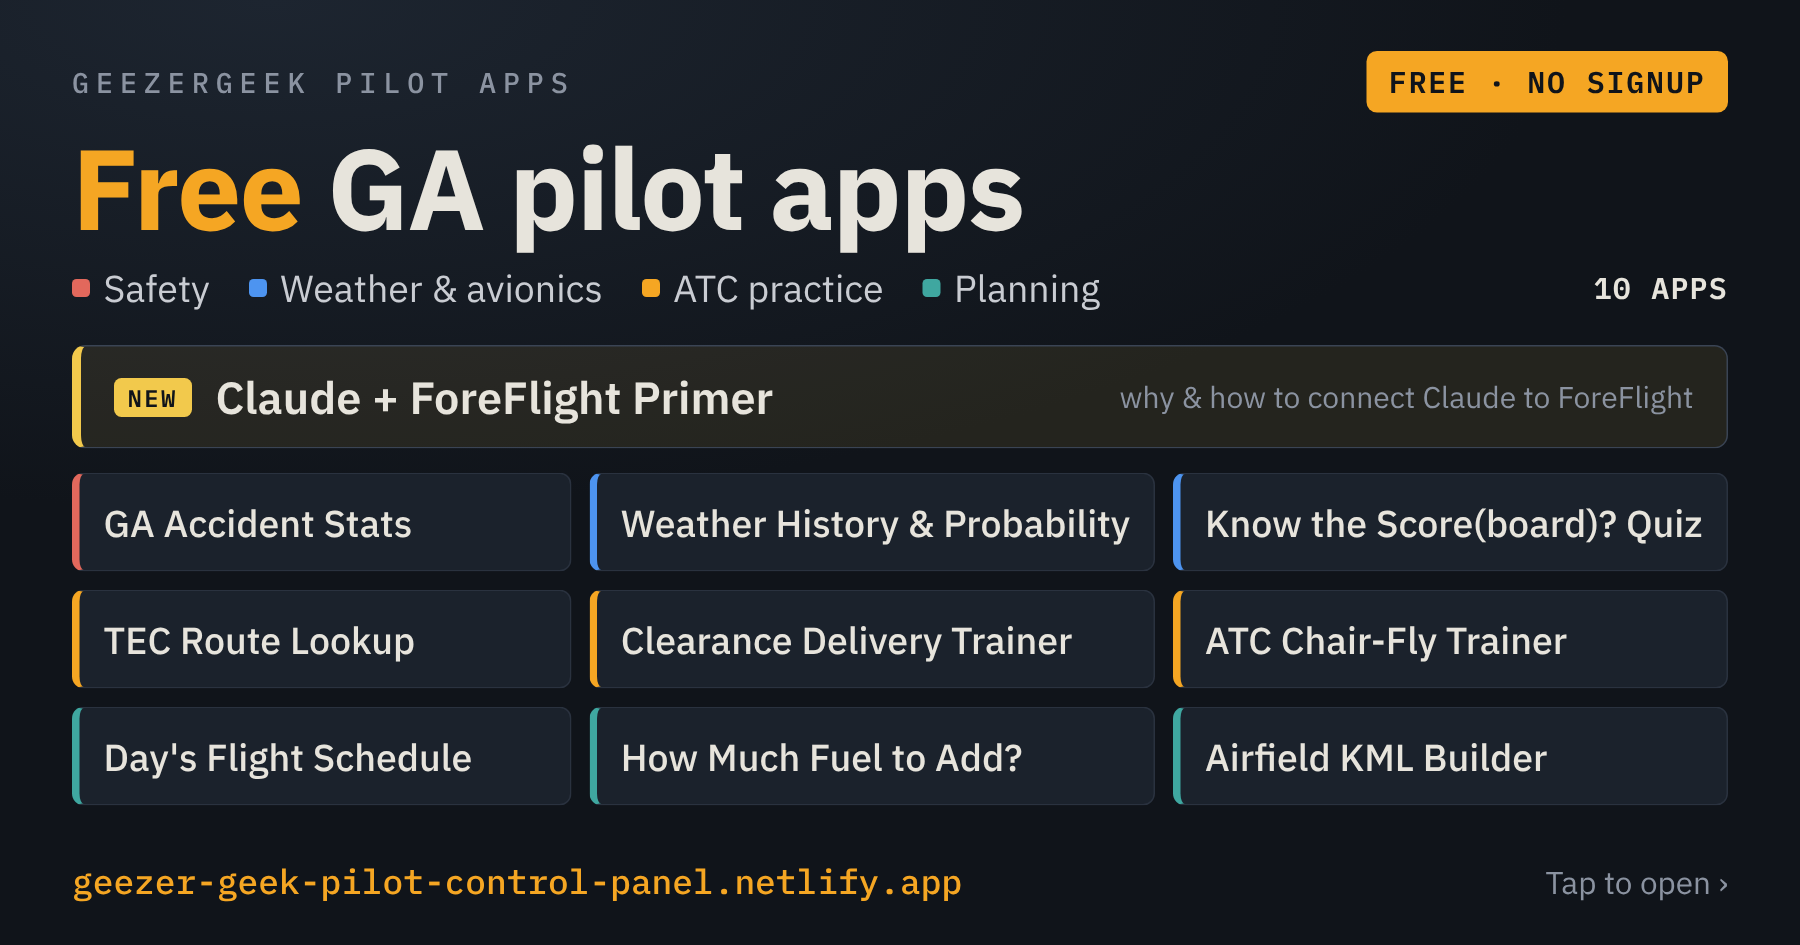
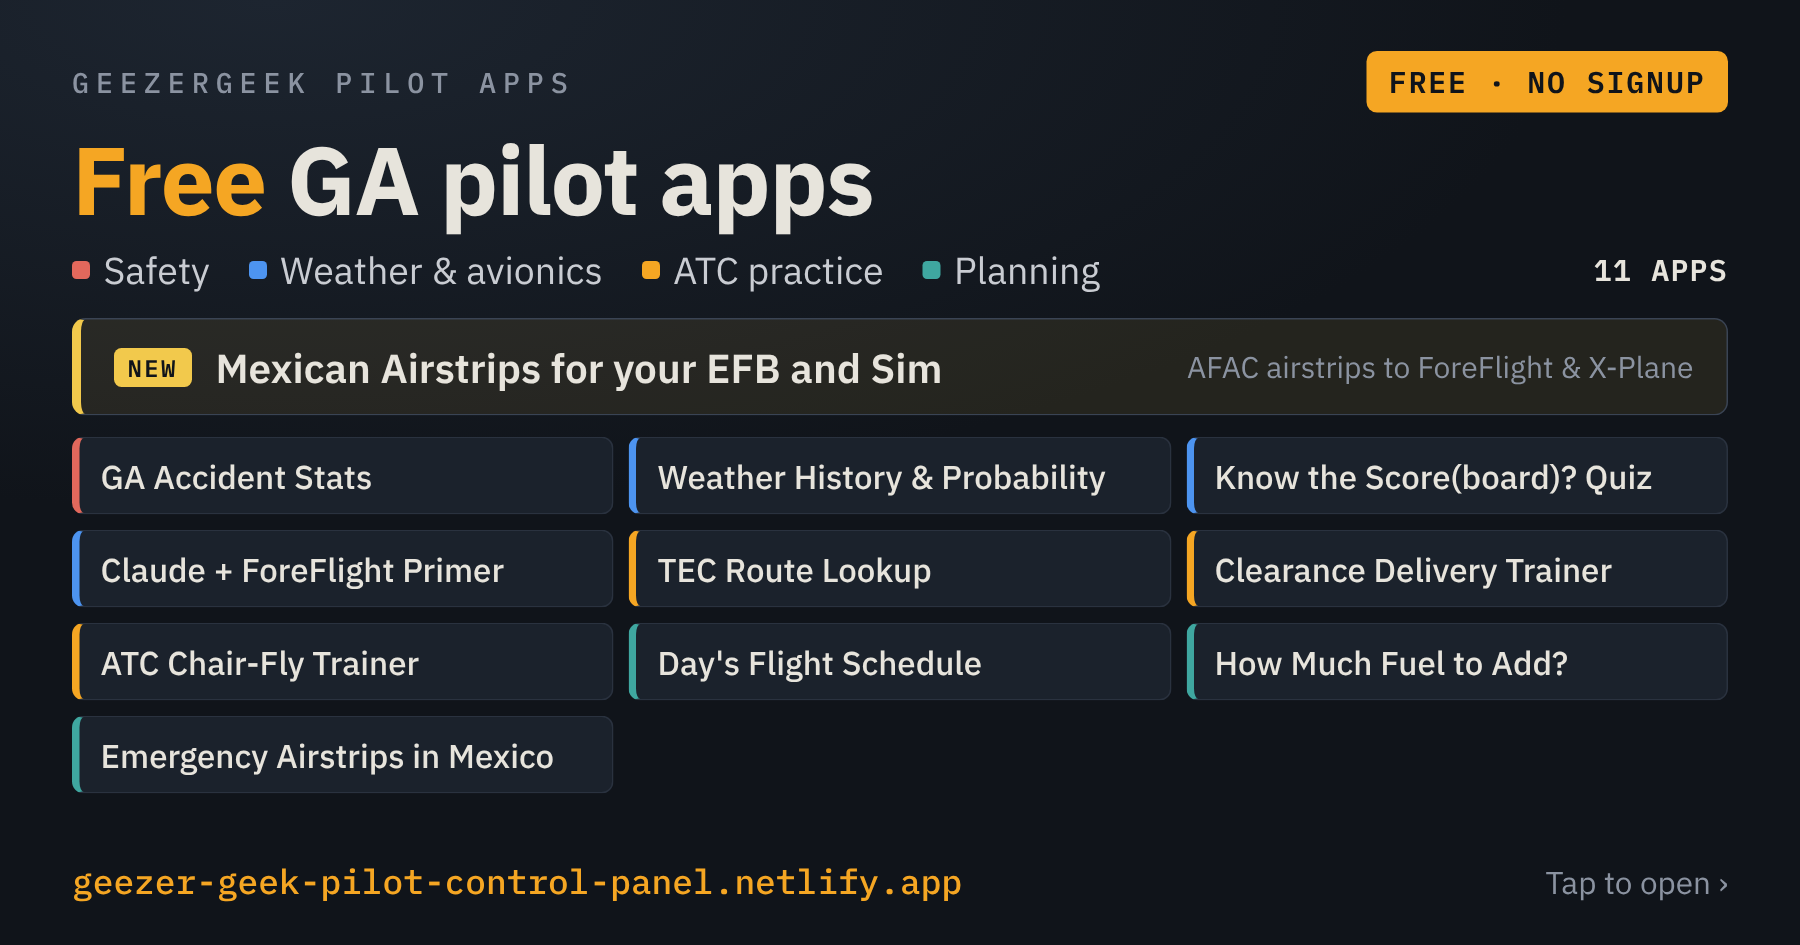
Control Panel v1.32: Planning Emergency Airstrips in Mexico card; group renamed Time, Route & Fuel Planning; og-image re-rendered (11 apps)
Claude-Session: https://claude.ai/code/session_014tDpGve8jysqJ53RbWqZW4

diff --git a/site/index.html b/site/index.html
@@ -13,11 +13,11 @@
 <meta property="og:site_name" content="GeezerGeek Pilot Apps">
 <meta property="og:title" content="GeezerGeek Pilot Apps: free tools for GA pilots">
 <meta property="og:description" content="Weather, planning, ATC practice and safety. Free, no signup, nothing to install.">
-<meta property="og:image" content="https://geezer-geek-pilot-control-panel.netlify.app/og-image.png?v=3">
+<meta property="og:image" content="https://geezer-geek-pilot-control-panel.netlify.app/og-image.png?v=4">
 <meta property="og:image:type" content="image/png">
 <meta property="og:image:width" content="1800">
 <meta property="og:image:height" content="945">
-<meta property="og:image:alt" content="GeezerGeek Pilot Apps: ten free apps for GA pilots">
+<meta property="og:image:alt" content="GeezerGeek Pilot Apps: eleven free apps for GA pilots">
 <meta name="twitter:card" content="summary_large_image">
 <link rel="manifest" href="manifest.json">
 <link rel="icon" href="icons/icon-192.png" sizes="192x192" type="image/png">
@@ -459,7 +459,7 @@
   <div class="rig">
     <div class="callsign-row">
       <h1><a class="title-link" href="qr.html" target="_blank" rel="noopener">GeezerGeek Pilot Apps</a></h1>
-      <span class="ver mono">v1.31</span>
+      <span class="ver mono">v1.32</span>
     </div>
     <p class="purpose-line">Some people spend their retirement volunteering at a food bank or the Red Cross&hellip; I fly doctors to Mexico and coach fellow pilots.</p>
     <div class="feedback-row">
@@ -677,8 +677,8 @@
       </section>
 
       <section class="app-group g-plan" aria-labelledby="grp-plan">
-        <h2 class="group-label" id="grp-plan">Time &amp; Fuel Planning</h2>
-        <div class="app-row">
+        <h2 class="group-label" id="grp-plan">Time, Route &amp; Fuel Planning</h2>  <!-- v1.32: was Time & Fuel Planning (Wayne) -->
+        <div class="app-row row-3">
           <a class="app-cell" href="https://days-flight-schedule.netlify.app/" aria-label="Open Day's Flight Schedule">
             <h3 class="app-name">Day's Flight Schedule</h3>
             <svg class="app-preview preview-strip" viewBox="-40 0 280 68" preserveAspectRatio="none" role="img" aria-label="Timeline of a flying day: depart home/hotel at KSBA wheels-up, stops at KSDM and MMSF, arrive home/hotel at MMLT, with calculated times above each">
@@ -716,6 +716,38 @@
               <text x="150" y="47.5" font-family="monospace" font-size="9.5" fill="#8b93a1" text-anchor="middle">R&#8195;<tspan fill="#f5a623">6.0 gal</tspan></text>
             </svg>
             <p class="app-desc">Enter the fuel you'll have after the current leg and the minimum you need for the next &mdash; alternate and reserve included &mdash; and it works out how much to add, in gallons and liters, total and per side.</p>
+          </a>
+            <!-- v1.32 (23-Nov-2026): Planning Emergency Airstrips in Mexico added here (Wayne's choice of group); graphic = route KSDM MMPE SQA
+                 with its 25 NM corridor, runway >= 2,000 ft + current permit, from tools/new-card/emergency-airstrips-route.py -->
+            <a class="app-cell" href="https://emergency-airstrips-mexico.netlify.app/" aria-label="Open Planning Emergency Airstrips in Mexico">
+            <h3 class="app-name">Planning Emergency Airstrips in Mexico</h3>
+            <svg class="app-preview preview-strip" viewBox="0 0 200 64" role="img" aria-label="Route KSDM to MMPE to SQA with its 25 NM corridor outlined, the airstrips inside it marked, and the longest stretch with no airstrip in red">
+<rect width="200" height="64" fill="#0f1a1f"/>
+<path d="M53.1 22.2 L53.3 22.2 L53.5 22.3 L53.7 22.5 L53.9 22.6 L54.1 22.7 L91.1 47.8 L91.3 47.9 L91.5 48.0 L91.7 48.2 L91.9 48.4 L92.0 48.6 L92.2 48.8 L92.3 49.0 L92.5 49.2 L92.6 49.4 L92.7 49.6 L92.9 49.8 L93.0 50.0 L93.0 50.3 L93.1 50.5 L93.2 50.7 L93.2 51.0 L93.3 51.2 L93.3 51.5 L93.3 51.7 L93.3 52.0 L93.3 52.2 L93.3 52.5 L93.3 52.7 L93.2 53.0 L93.2 53.2 L93.1 53.4 L93.0 53.7 L92.9 53.9 L92.8 54.1 L92.7 54.4 L92.6 54.6 L92.5 54.8 L92.3 55.0 L92.2 55.2 L92.0 55.4 L91.8 55.5 L91.6 55.7 L91.4 55.9 L91.3 56.0 L91.0 56.2 L90.8 56.3 L90.6 56.4 L90.4 56.5 L90.2 56.6 L89.9 56.7 L89.7 56.8 L89.5 56.9 L89.2 56.9 L89.0 57.0 L88.7 57.0 L88.5 57.0 L88.2 57.0 L88.0 57.0 L87.7 57.0 L87.5 56.9 L87.2 56.9 L87.0 56.8 L86.8 56.8 L86.5 56.7 L86.3 56.6 L86.1 56.5 L85.8 56.4 L85.6 56.3 L85.4 56.1 L48.9 31.4 L11.2 16.8 L11.0 16.7 L10.8 16.6 L10.6 16.5 L10.3 16.3 L10.1 16.2 L9.9 16.0 L9.7 15.9 L9.6 15.7 L9.4 15.5 L9.2 15.4 L9.1 15.2 L8.9 15.0 L8.8 14.8 L8.7 14.5 L8.5 14.3 L8.4 14.1 L8.3 13.9 L8.3 13.6 L8.2 13.4 L8.1 13.2 L8.1 12.9 L8.0 12.7 L8.0 12.4 L8.0 12.2 L8.0 11.9 L8.0 11.7 L8.0 11.4 L8.1 11.2 L8.1 10.9 L8.2 10.7 L8.3 10.5 L8.3 10.2 L8.4 10.0 L8.5 9.8 L8.7 9.6 L8.8 9.3 L8.9 9.1 L9.1 8.9 L9.2 8.7 L9.4 8.6 L9.6 8.4 L9.8 8.2 L10.0 8.1 L10.2 7.9 L10.4 7.8 L10.6 7.7 L10.8 7.5 L11.0 7.4 L11.2 7.3 L11.5 7.3 L11.7 7.2 L12.0 7.1 L12.2 7.1 L12.4 7.0 L12.7 7.0 L12.9 7.0 L13.2 7.0 L13.4 7.0 L13.7 7.0 L13.9 7.1 L14.2 7.1 L14.4 7.2 L14.7 7.3 L14.9 7.3 L53.1 22.2 Z" fill="#f5a623" fill-opacity="0.06" stroke="#f5a623" stroke-width="1" stroke-dasharray="3 2.5"/>
+<polyline points="13.1,12.1 51.3,26.9 88.3,51.9" fill="none" stroke="#f5a623" stroke-width="1.6"/>
+<polyline points="32.5,19.6 51.3,26.9" fill="none" stroke="#e0705f" stroke-width="2.4"/>
+<circle cx="62.5" cy="34.8" r="2.3" fill="#c08a52" stroke="#10141a" stroke-width="0.7"/>
+<circle cx="56.4" cy="33.0" r="2.3" fill="#c08a52" stroke="#10141a" stroke-width="0.7"/>
+<circle cx="34.0" cy="15.6" r="2.3" fill="#c08a52" stroke="#10141a" stroke-width="0.7"/>
+<circle cx="76.2" cy="46.6" r="2.3" fill="#c08a52" stroke="#10141a" stroke-width="0.7"/>
+<circle cx="60.4" cy="33.7" r="2.3" fill="#c08a52" stroke="#10141a" stroke-width="0.7"/>
+<circle cx="33.6" cy="16.1" r="2.3" fill="#c08a52" stroke="#10141a" stroke-width="0.7"/>
+<circle cx="21.2" cy="20.3" r="2.3" fill="#b9c2cf" stroke="#10141a" stroke-width="0.7"/>
+<circle cx="16.6" cy="14.7" r="2.3" fill="#c08a52" stroke="#10141a" stroke-width="0.7"/>
+<circle cx="33.2" cy="17.0" r="2.3" fill="#c08a52" stroke="#10141a" stroke-width="0.7"/>
+<rect x="11.0" y="10.2" width="4.4" height="4.4" rx="0.8" fill="#7fd6ee" stroke="#10141a" stroke-width="0.7"/>
+<circle cx="13.1" cy="12.1" r="2.6" fill="#f5a623" stroke="#10141a" stroke-width="0.8"/>
+<text x="13.1" y="8.1" font-family="monospace" font-size="6.5" font-weight="700" fill="#f5a623" text-anchor="middle">KSDM</text>
+<circle cx="51.3" cy="26.9" r="2.6" fill="#f5a623" stroke="#10141a" stroke-width="0.8"/>
+<text x="51.3" y="22.9" font-family="monospace" font-size="6.5" font-weight="700" fill="#f5a623" text-anchor="middle">MMPE</text>
+<circle cx="88.3" cy="51.9" r="2.6" fill="#f5a623" stroke="#10141a" stroke-width="0.8"/>
+<text x="88.3" y="58.9" font-family="monospace" font-size="6.5" font-weight="700" fill="#f5a623" text-anchor="middle">SQA</text>
+<text x="101.32460813846036" y="20" font-family="monospace" font-size="7.5" fill="#e7e4dc">10 airstrips</text>
+<text x="101.32460813846036" y="29" font-family="sans-serif" font-size="6.5" fill="#8b93a1">within 25 NM</text>
+<text x="101.32460813846036" y="44" font-family="monospace" font-size="7.5" fill="#e0705f">99 NM gap</text>
+<text x="101.32460813846036" y="53" font-family="sans-serif" font-size="6.5" fill="#8b93a1">longest, in red</text>
+</svg>
+            <p class="app-desc">Type a route across Mexico and see every airstrip and airport within 10, 25 or 50 NM of it, in route order &mdash; filter by runway length, paved, current permit and third-party use, and see the longest stretch with nowhere to land.</p>
           </a>
 
           </div>
@@ -993,4 +1025,5 @@
 </script>
 </body>
 </html>
+<!-- v1.32 (23-Nov-2026): Planning Emergency Airstrips in Mexico card added to the planning group, renamed "Time, Route & Fuel Planning" (Wayne); og-image.png re-rendered (?v=4, eleven apps). -->
 <!-- v1.25 (14-Nov-2026): Airfield KML Builder card added to Time & Fuel Planning (Wayne's choice, in place of the New group). -->

diff --git a/tools/og-card/card.html b/tools/og-card/card.html
@@ -1,5 +1,5 @@
 <!DOCTYPE html><html><head><meta charset="utf-8">
-<!-- Source for site/og-image.png (link-preview card). Render at 1200x630, device scale 1.5 → 1800x945 PNG. Control Panel v1.26, 14-Nov-2026. -->
+<!-- Source for site/og-image.png (link-preview card). Render at 1200x630, device scale 1.5 → 1800x945 PNG. Control Panel v1.32, 23-Nov-2026. -->
 <link href="https://fonts.googleapis.com/css2?family=IBM+Plex+Mono:wght@500;600&family=IBM+Plex+Sans:wght@400;500;600;700&display=swap" rel="stylesheet"><style>
 
 
@@ -13,18 +13,18 @@ body{background:radial-gradient(120% 90% at 15% 0%,#1d2530 0%,#10141a 60%);color
 .top{display:flex;justify-content:space-between;align-items:center}
 .brand{font-family:"IBM Plex Mono";font-weight:500;font-size:19px;letter-spacing:.24em;color:#8b93a1}
 .free{font-family:"IBM Plex Mono";font-weight:600;font-size:20px;letter-spacing:.06em;background:#f5a623;color:#10141a;padding:7px 15px;border-radius:7px}
-h1{font-weight:700;font-size:76px;line-height:1;letter-spacing:-.015em;margin-top:12px}
+h1{font-weight:700;font-size:64px;line-height:1;letter-spacing:-.015em;margin-top:12px}
 h1 em{font-style:normal;color:#f5a623}
 .cats{display:flex;gap:26px;margin-top:12px;font-size:25px;color:#c9ccd2;align-items:center}
 .cats span{display:flex;align-items:center;gap:9px}
 .cats i{width:12px;height:12px;border-radius:3px;display:inline-block}
 .cats b{font-weight:600;color:#e7e4dc;margin-left:auto;font-family:"IBM Plex Mono";font-size:20px;letter-spacing:.04em}
-.new{margin-top:22px;display:flex;align-items:center;gap:16px;background:rgba(242,201,76,.09);border:1px solid #3a4454;border-left:6px solid #f2c94c;border-radius:9px;padding:14px 22px}
+.new{margin-top:16px;display:flex;align-items:center;gap:16px;background:rgba(242,201,76,.09);border:1px solid #3a4454;border-left:6px solid #f2c94c;border-radius:9px;padding:14px 22px}
 .badge{font-family:"IBM Plex Mono";font-weight:600;font-size:16px;letter-spacing:.1em;background:#f2c94c;color:#10141a;padding:3px 9px;border-radius:5px}
-.new .n{font-size:30px;font-weight:600}
+.new .n{font-size:27px;font-weight:600}
 .new .d{font-size:20px;color:#8b93a1;margin-left:auto}
-.grid{display:grid;grid-template-columns:repeat(3,1fr);gap:12px;margin-top:16px}
-.t{background:#1b222c;border:1px solid #2a323f;border-left:5px solid var(--g);border-radius:8px;padding:0 16px;height:66px;display:flex;align-items:center;font-size:25px;font-weight:500;white-space:nowrap}
+.grid{display:grid;grid-template-columns:repeat(3,minmax(0,1fr));gap:10px;margin-top:14px}
+.t{background:#1b222c;border:1px solid #2a323f;border-left:5px solid var(--g);border-radius:8px;padding:0 14px;height:52px;display:flex;align-items:center;font-size:22px;overflow:hidden;font-weight:500;white-space:nowrap}
 .foot{margin-top:auto;display:flex;justify-content:space-between;align-items:baseline}
 .url{font-family:"IBM Plex Mono";font-weight:500;font-size:23px;color:#f5a623}
 .tap{font-size:21px;color:#8b93a1}
@@ -36,18 +36,19 @@ h1 em{font-style:normal;color:#f5a623}
  <span><i style="background:#4d94f0"></i>Weather &amp; avionics</span>
  <span><i style="background:#f5a623"></i>ATC practice</span>
  <span><i style="background:#3fa7a0"></i>Planning</span>
- <b>10 APPS</b></div>
-<div class="new"><span class="badge">NEW</span><span class="n">Claude + ForeFlight Primer</span><span class="d">why &amp; how to connect Claude to ForeFlight</span></div>
+ <b>11 APPS</b></div>
+<div class="new"><span class="badge">NEW</span><span class="n">Mexican Airstrips for your EFB and Sim</span><span class="d">AFAC airstrips to ForeFlight &amp; X-Plane</span></div>
 <div class="grid">
  <div class="t" style="--g:#e2685c">GA Accident Stats</div>
  <div class="t" style="--g:#4d94f0">Weather History &amp; Probability</div>
  <div class="t" style="--g:#4d94f0">Know the Score(board)? Quiz</div>
+ <div class="t" style="--g:#4d94f0">Claude + ForeFlight Primer</div>
  <div class="t" style="--g:#f5a623">TEC Route Lookup</div>
  <div class="t" style="--g:#f5a623">Clearance Delivery Trainer</div>
  <div class="t" style="--g:#f5a623">ATC Chair-Fly Trainer</div>
  <div class="t" style="--g:#3fa7a0">Day's Flight Schedule</div>
  <div class="t" style="--g:#3fa7a0">How Much Fuel to Add?</div>
- <div class="t" style="--g:#3fa7a0">Airfield KML Builder</div>
+ <div class="t" style="--g:#3fa7a0">Emergency Airstrips in Mexico</div>
 </div>
 <div class="foot"><span class="url">geezer-geek-pilot-control-panel.netlify.app</span><span class="tap">Tap to open ›</span></div>
 </body></html>

diff --git a/tools/new-card/emergency-airstrips-route.py b/tools/new-card/emergency-airstrips-route.py
@@ -1,0 +1,64 @@
+#!/usr/bin/env python3
+"""Control Panel card graphic for Planning Emergency Airstrips in Mexico (v1.32, 23-Nov-2026).
+Route KSDM MMPE XSQA (Wayne's pick), 25 NM corridor, filters runway >= 2,000 ft + current permit (ICAO: official list),
+as in Wayne's 23-Nov-2026 screenshot of the app. Needs the AFAC list JSON (the app's /.netlify/functions/afac output),
+mx-icao.json, mx-icao-runways.json. Prints the <svg> to paste into site/index.html. pip: shapely."""
+import json, math, sys
+from shapely.geometry import LineString
+from shapely.ops import transform
+afac = json.load(open(sys.argv[1]))['records']
+icao = json.load(open(sys.argv[2]))['airports']
+irw = json.load(open(sys.argv[3]))['runways']
+R = 3440.065
+ksdm = (32.572306, -116.979889)              # Brown Field (OurAirports)
+mmpe = next((a['lat'], a['lon']) for a in icao if a['code'] == 'MMPE')
+sqa = next((r['lat'], r['lon']) for r in afac if r['des'] == 'SQA')
+W = [ksdm, mmpe, sqa]; NAMES = ['KSDM', 'MMPE', 'SQA']
+lat0 = sum(p[0] for p in W) / 3; cx = math.cos(math.radians(lat0))
+P = lambda la, lo: (lo * 60 * cx, la * 60)     # NM, local equirectangular
+route = LineString([P(*p) for p in W]); COR = 25
+corr = route.buffer(COR, 32)
+pts = []
+for r in afac:
+    if r['lat'] is None or (r['len_m'] or 0) < 610 or not (r['status'] or '').startswith('VIGENTE'): continue
+    q = P(r['lat'], r['lon'])
+    if route.distance(__import__('shapely.geometry', fromlist=['Point']).Point(q)) <= COR and r['des'] != 'SQA':
+        paved = any(k in (r['surf'] or '').upper() for k in ('ASFALT', 'CONCRET', 'PAVIMENTO'))
+        pts.append((q, r['des'], paved, False))
+for a in icao:
+    w = irw.get(a['code']); q = P(a['lat'], a['lon'])
+    if a['code'] == 'MMPE' or not a['sam'] or not w or (w[1] or 0) < 2000: continue
+    if route.distance(__import__('shapely.geometry', fromlist=['Point']).Point(q)) <= COR: pts.append((q, a['code'], True, True))
+# frame
+minx, miny, maxx, maxy = corr.bounds
+VW, VH, pad = 200, 64, 7
+s = min((VW * 0.62) / (maxx - minx), (VH - 2 * pad) / (maxy - miny))
+ox = 8 - minx * s; oy = pad + maxy * s
+T = lambda x, y: (round(ox + x * s, 1), round(oy - y * s, 1))
+def path(coords): return 'M' + ' L'.join(f'{a} {b}' for a, b in (T(*c) for c in coords)) + ' Z'
+out = [f'<svg class="app-preview preview-strip" viewBox="0 0 {VW} {VH}" role="img" aria-label="Route KSDM to MMPE to SQA with its 25 NM corridor outlined, the airstrips inside it marked, and the longest stretch with no airstrip in red">',
+       f'<rect width="{VW}" height="{VH}" fill="#0f1a1f"/>',
+       f'<path d="{path(corr.exterior.coords)}" fill="#f5a623" fill-opacity="0.06" stroke="#f5a623" stroke-width="1" stroke-dasharray="3 2.5"/>']
+xs = [T(*P(*p)) for p in W]
+out.append(f'<polyline points="{" ".join(f"{a},{b}" for a, b in xs)}" fill="none" stroke="#f5a623" stroke-width="1.6"/>')
+# longest gap along the route (route airports count)
+along = sorted([0, route.length] + [route.project(__import__('shapely.geometry', fromlist=['Point']).Point(q)) for q, *_ in pts] + [route.project(__import__('shapely.geometry', fromlist=['Point']).Point(P(*mmpe)))])
+g = max(zip(along, along[1:]), key=lambda t: t[1] - t[0])
+from shapely.ops import substring
+seg = substring(route, g[0], g[1])
+out.append(f'<polyline points="{" ".join(f"{a},{b}" for a, b in (T(*c) for c in seg.coords))}" fill="none" stroke="#e0705f" stroke-width="2.4"/>')
+for q, code, paved, isicao in pts:
+    x, y = T(*q)
+    if isicao: out.append(f'<rect x="{x-2.2}" y="{y-2.2}" width="4.4" height="4.4" rx="0.8" fill="#7fd6ee" stroke="#10141a" stroke-width="0.7"/>')
+    else: out.append(f'<circle cx="{x}" cy="{y}" r="2.3" fill="{"#b9c2cf" if paved else "#c08a52"}" stroke="#10141a" stroke-width="0.7"/>')
+for (x, y), n in zip(xs, NAMES):
+    out.append(f'<circle cx="{x}" cy="{y}" r="2.6" fill="#f5a623" stroke="#10141a" stroke-width="0.8"/>')
+    dy = -4 if n != 'SQA' else 7
+    out.append(f'<text x="{x}" y="{y + dy}" font-family="monospace" font-size="6.5" font-weight="700" fill="#f5a623" text-anchor="middle">{n}</text>')
+tx = 8 + (maxx - minx) * s + 8
+gapnm = 99   # the app's own figure for this route and filters (its per-leg projection gives 99; this one-frame projection 100)
+out += [f'<text x="{tx}" y="20" font-family="monospace" font-size="7.5" fill="#e7e4dc">{len(pts)} airstrips</text>',
+        f'<text x="{tx}" y="29" font-family="sans-serif" font-size="6.5" fill="#8b93a1">within {COR} NM</text>',
+        f'<text x="{tx}" y="44" font-family="monospace" font-size="7.5" fill="#e0705f">{gapnm} NM gap</text>',
+        f'<text x="{tx}" y="53" font-family="sans-serif" font-size="6.5" fill="#8b93a1">longest, in red</text>', '</svg>']
+print('\n'.join(out))
